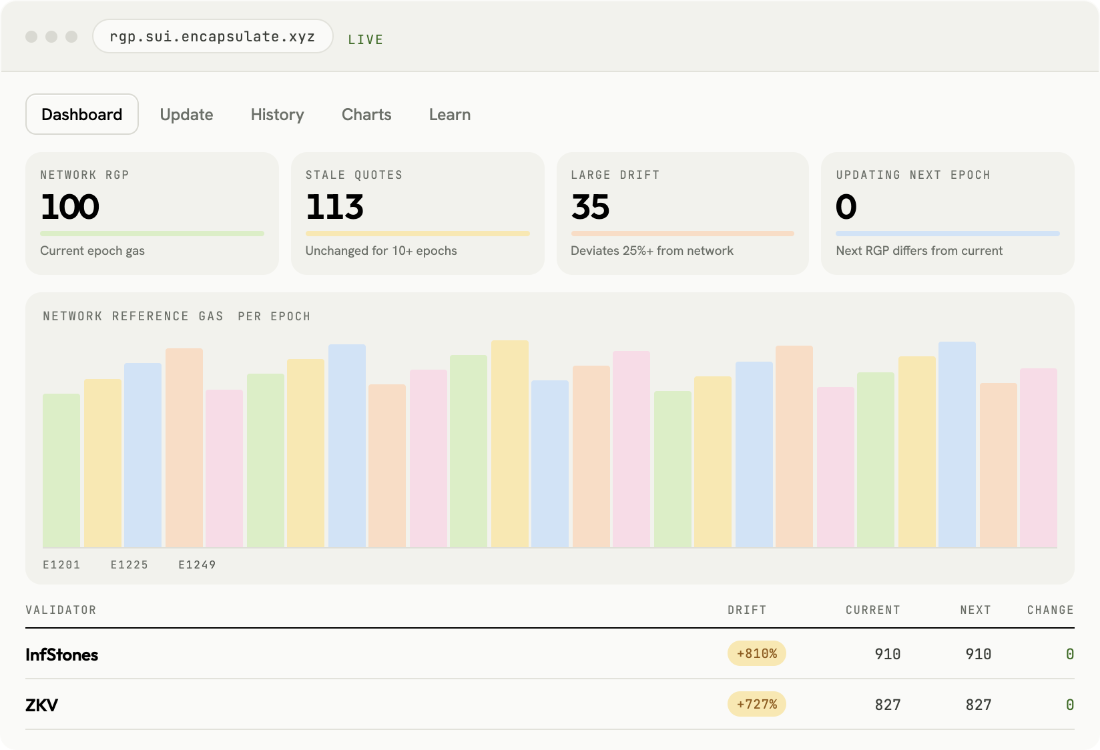
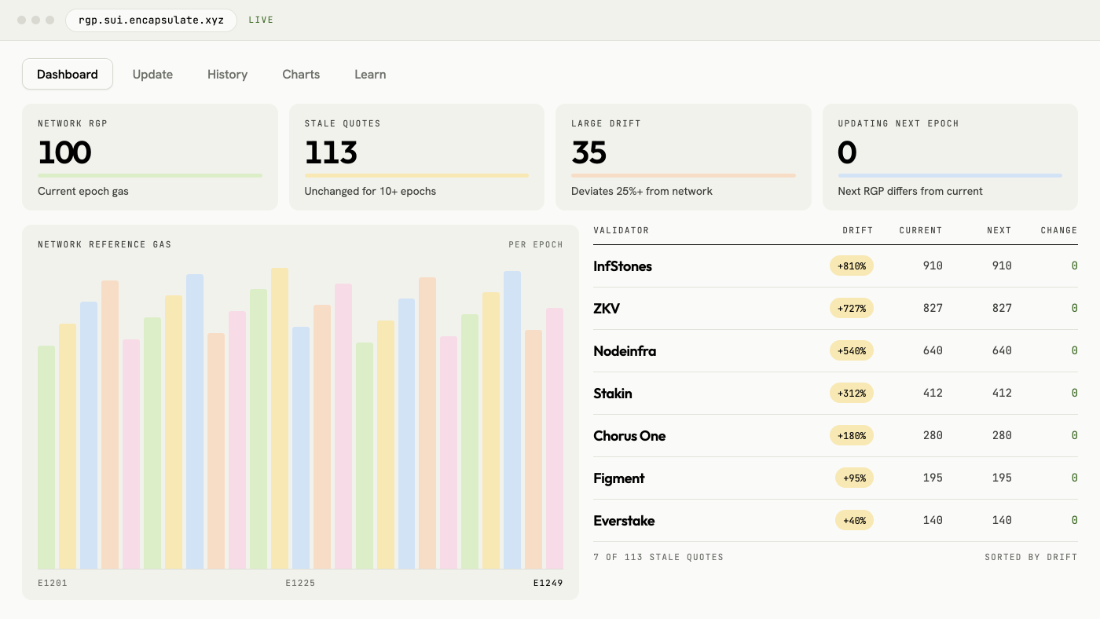
navbar: Navbar 4f's Services round — the group's line names monitoring, Dashboards lists what is live, the tool captures fill the preview
The preview draws a tool's capture whole from its top-left corner (the four tiles in the
Services column keep 170%); the four captures are the design's new panel-thumbs-2x, the
Services page's own sections. Dashboards' third column is read from the Dashboards table on
/services (its Menu line, linked to the dashboard), keyed by the section link.

Claude-Session: https://claude.ai/code/session_01K54BCe8v7TyhaKoo1gc8XL

diff --git a/dist/navbar.js b/dist/navbar.js
@@ -27,7 +27,7 @@
     "/networks": ["28 mainnets, 14 testnets",
       "Every chain we validate, mainnet and testnet.",
       "Reward rate where the chain publishes one; the role we played where it does not."],
-    "/services": ["Dashboards, playbooks, bots",
+    "/services": ["Dashboards, playbooks, bots, monitoring",
       "What we build and run around the validator.",
       "Dashboards, playbooks, bots and monitoring — used on our own set first."],
     "/governance-record": ["How we decide a vote",
@@ -183,6 +183,8 @@
   var GUIDES = "block-1f6e800a5138818195f9ed0a1403479e";       /* the Guides database */
   var PILLARS = "block-10fb4619625b43cd82d572d6b806ead7";      /* Governance Mechanism */
   var PORTFOLIO = "block-807c8bde92a74f3a95bf8d798f39c02b";
+  var DASHBOARDS = "block-3e4e800a51388119a5eeee126cb6b18b";   /* the Dashboards table on /services */
+  var DASH_LINK = "/services#block-3e4e800a513881cf8a82c41c2f9f8c78";  /* the menu's Dashboards */
   var CONTACT = ["block-3dee800a513881cda7b7dd5b6474afca",      /* the booking band's headline */
     "block-3dee800a51388127b675dd612c34c790",                   /* "Or write to us" */
     "block-3dee800a513881b58eaedff6e0135806",                   /* the institutional fold */
@@ -298,9 +300,29 @@
       }).filter(function (r) { return r.name; });
     }
   };
+  /* Dashboards — "Live now": one line per dashboard, from the Dashboards table on /services, in
+     its Order. The line is the row's Menu property ("Sui RGP dashboard"), the link its Link. */
+  READ[DASH_LINK] = function (doc) {
+    var t = doc.getElementById(DASHBOARDS);
+    var table = t && t.querySelector("table");
+    if (!table) return [];
+    var heads = all(table, "thead th").map(function (th) { return th.textContent.trim().toLowerCase(); });
+    var col = function (name) { return heads.indexOf(name); };
+    return all(table, "tbody tr").map(function (tr) {
+      var cell = function (name) { var i = col(name); return i < 0 ? null : tr.children[i]; };
+      var menu = cell("menu"), nm = cell("name"), ln = cell("link"), ord = cell("order");
+      var a = ln && ln.querySelector("a[href]");
+      return { text: ((menu && menu.textContent.trim()) || (nm && nm.textContent.trim()) || ""),
+        href: a ? a.getAttribute("href") : DASH_LINK,
+        order: ord ? parseFloat(ord.textContent) : NaN };
+    }).filter(function (r) { return r.text; }).sort(function (a, b) {
+      return (isNaN(a.order) ? 1e9 : a.order) - (isNaN(b.order) ? 1e9 : b.order);
+    });
+  };
   var KIND = { "/networks": "chains", "/governance-record": "list", "/security": "list",
     "/brand": "list", "/contact-us": "list", "/guides": "guides", "/blog": "posts",
     "/investments": "holds", "/services": "tiles" };
+  KIND[DASH_LINK] = "list";
 
   function outward(a, href) {
     a.href = href || "#";
@@ -498,9 +520,10 @@
     var current = null, timer = 0;
 
     function fill(href) {
-      var bare = (href || "").split("?")[0];
-      var key = bare.indexOf("#") >= 0 ? "" : path(href);
+      var bare = whole(href || "");
+      var key = bare.indexOf("#") >= 0 ? bare : path(href);
       var kind = KIND[key];
+      var page = path(href);
       extra.textContent = "";
       extra.removeAttribute("data-enc-kind");
       third.removeAttribute("data-enc-filled");
@@ -515,7 +538,7 @@
       /* a pointer passing over the row does not fetch a page; one that rests on it does */
       clearTimeout(timer);
       timer = setTimeout(function () {
-        pageOf(key).then(function (doc) {
+        pageOf(page).then(function (doc) {
           if (!doc || current !== href) return;
           var rows = [];
           try { rows = READ[key](doc) || []; } catch (e) { rows = []; }
@@ -525,7 +548,7 @@
           DRAW[kind](extra, rows);
           third.setAttribute("data-enc-filled", "");
         });
-      }, docs[key] ? 0 : 220);
+      }, docs[page] ? 0 : 220);
     }
 
     function show(a) {

diff --git a/navbar.js b/navbar.js
@@ -27,7 +27,7 @@
     "/networks": ["28 mainnets, 14 testnets",
       "Every chain we validate, mainnet and testnet.",
       "Reward rate where the chain publishes one; the role we played where it does not."],
-    "/services": ["Dashboards, playbooks, bots",
+    "/services": ["Dashboards, playbooks, bots, monitoring",
       "What we build and run around the validator.",
       "Dashboards, playbooks, bots and monitoring — used on our own set first."],
     "/governance-record": ["How we decide a vote",
@@ -183,6 +183,8 @@
   var GUIDES = "block-1f6e800a5138818195f9ed0a1403479e";       /* the Guides database */
   var PILLARS = "block-10fb4619625b43cd82d572d6b806ead7";      /* Governance Mechanism */
   var PORTFOLIO = "block-807c8bde92a74f3a95bf8d798f39c02b";
+  var DASHBOARDS = "block-3e4e800a51388119a5eeee126cb6b18b";   /* the Dashboards table on /services */
+  var DASH_LINK = "/services#block-3e4e800a513881cf8a82c41c2f9f8c78";  /* the menu's Dashboards */
   var CONTACT = ["block-3dee800a513881cda7b7dd5b6474afca",      /* the booking band's headline */
     "block-3dee800a51388127b675dd612c34c790",                   /* "Or write to us" */
     "block-3dee800a513881b58eaedff6e0135806",                   /* the institutional fold */
@@ -298,9 +300,29 @@
       }).filter(function (r) { return r.name; });
     }
   };
+  /* Dashboards — "Live now": one line per dashboard, from the Dashboards table on /services, in
+     its Order. The line is the row's Menu property ("Sui RGP dashboard"), the link its Link. */
+  READ[DASH_LINK] = function (doc) {
+    var t = doc.getElementById(DASHBOARDS);
+    var table = t && t.querySelector("table");
+    if (!table) return [];
+    var heads = all(table, "thead th").map(function (th) { return th.textContent.trim().toLowerCase(); });
+    var col = function (name) { return heads.indexOf(name); };
+    return all(table, "tbody tr").map(function (tr) {
+      var cell = function (name) { var i = col(name); return i < 0 ? null : tr.children[i]; };
+      var menu = cell("menu"), nm = cell("name"), ln = cell("link"), ord = cell("order");
+      var a = ln && ln.querySelector("a[href]");
+      return { text: ((menu && menu.textContent.trim()) || (nm && nm.textContent.trim()) || ""),
+        href: a ? a.getAttribute("href") : DASH_LINK,
+        order: ord ? parseFloat(ord.textContent) : NaN };
+    }).filter(function (r) { return r.text; }).sort(function (a, b) {
+      return (isNaN(a.order) ? 1e9 : a.order) - (isNaN(b.order) ? 1e9 : b.order);
+    });
+  };
   var KIND = { "/networks": "chains", "/governance-record": "list", "/security": "list",
     "/brand": "list", "/contact-us": "list", "/guides": "guides", "/blog": "posts",
     "/investments": "holds", "/services": "tiles" };
+  KIND[DASH_LINK] = "list";
 
   function outward(a, href) {
     a.href = href || "#";
@@ -498,9 +520,10 @@
     var current = null, timer = 0;
 
     function fill(href) {
-      var bare = (href || "").split("?")[0];
-      var key = bare.indexOf("#") >= 0 ? "" : path(href);
+      var bare = whole(href || "");
+      var key = bare.indexOf("#") >= 0 ? bare : path(href);
       var kind = KIND[key];
+      var page = path(href);
       extra.textContent = "";
       extra.removeAttribute("data-enc-kind");
       third.removeAttribute("data-enc-filled");
@@ -515,7 +538,7 @@
       /* a pointer passing over the row does not fetch a page; one that rests on it does */
       clearTimeout(timer);
       timer = setTimeout(function () {
-        pageOf(key).then(function (doc) {
+        pageOf(page).then(function (doc) {
           if (!doc || current !== href) return;
           var rows = [];
           try { rows = READ[key](doc) || []; } catch (e) { rows = []; }
@@ -525,7 +548,7 @@
           DRAW[kind](extra, rows);
           third.setAttribute("data-enc-filled", "");
         });
-      }, docs[key] ? 0 : 220);
+      }, docs[page] ? 0 : 220);
     }
 
     function show(a) {

diff --git a/dist/main.css b/dist/main.css
@@ -46,7 +46,8 @@ body:has(.super-content[class*="parent-page__blog"]) .super-root nav.super-navba
 .enc-nav__tile[data-enc-shot]{background: #F2F2ED;}
 .enc-nav__tile img{display: none;}
 .enc-nav__tile[data-enc-shot="cover"] img{display: block;position: absolute;inset: 0;width: 100%;height: 100%;object-fit: cover;object-position: left center;}
-.enc-nav__tile[data-enc-shot="panel"] img{display: block;position: absolute;left: 0;top: 0;width: 170%;height: auto;max-width: none;}
+.enc-nav__tile[data-enc-shot="panel"] img{display: block;position: absolute;inset: 0;width: 100%;height: 100%;object-fit: cover;object-position: left top;}
+.enc-nav__preview--tile .enc-nav__tile[data-enc-shot="panel"] img{inset: auto;left: 0;top: 0;width: 170%;height: auto;max-width: none;object-fit: fill;}
 .enc-nav__preview:hover .enc-nav__tile{border-color: #9B9B94;}
 .enc-nav__tile-name{position: absolute;left: 16px;top: 15px;right: 38%;font-family: var(--type-display),sans-serif;font-weight: 600;font-size: 16px;line-height: 1.1;letter-spacing: -0.022em;color: #FAFAF8;}
 .enc-nav__tile[data-enc-shot] .enc-nav__tile-name{display: none;}

diff --git a/main.css b/main.css
@@ -549,15 +549,27 @@ body:has(.super-content[class*="parent-page__blog"]) .super-root nav.super-navba
   object-position: left center;
 }
 
-/* a tool's panel is a true 2x capture, drawn at 170% from its top-left corner */
+/* a tool's panel fills the preview from its top-left corner (handoff, 2026-09-23: the captures
+   are now the Services page's own sections, drawn whole rather than at 170%) */
 .enc-nav__tile[data-enc-shot="panel"] img {
   display: block;
   position: absolute;
+  inset: 0;
+  width: 100%;
+  height: 100%;
+  object-fit: cover;
+  object-position: left top;
+}
+
+/* the four tool tiles in the Services column still show a corner, at 170% from the top-left */
+.enc-nav__preview--tile .enc-nav__tile[data-enc-shot="panel"] img {
+  inset: auto;
   left: 0;
   top: 0;
   width: 170%;
   height: auto;
   max-width: none;
+  object-fit: fill;
 }
 
 .enc-nav__preview:hover .enc-nav__tile { border-color: #9B9B94; }
